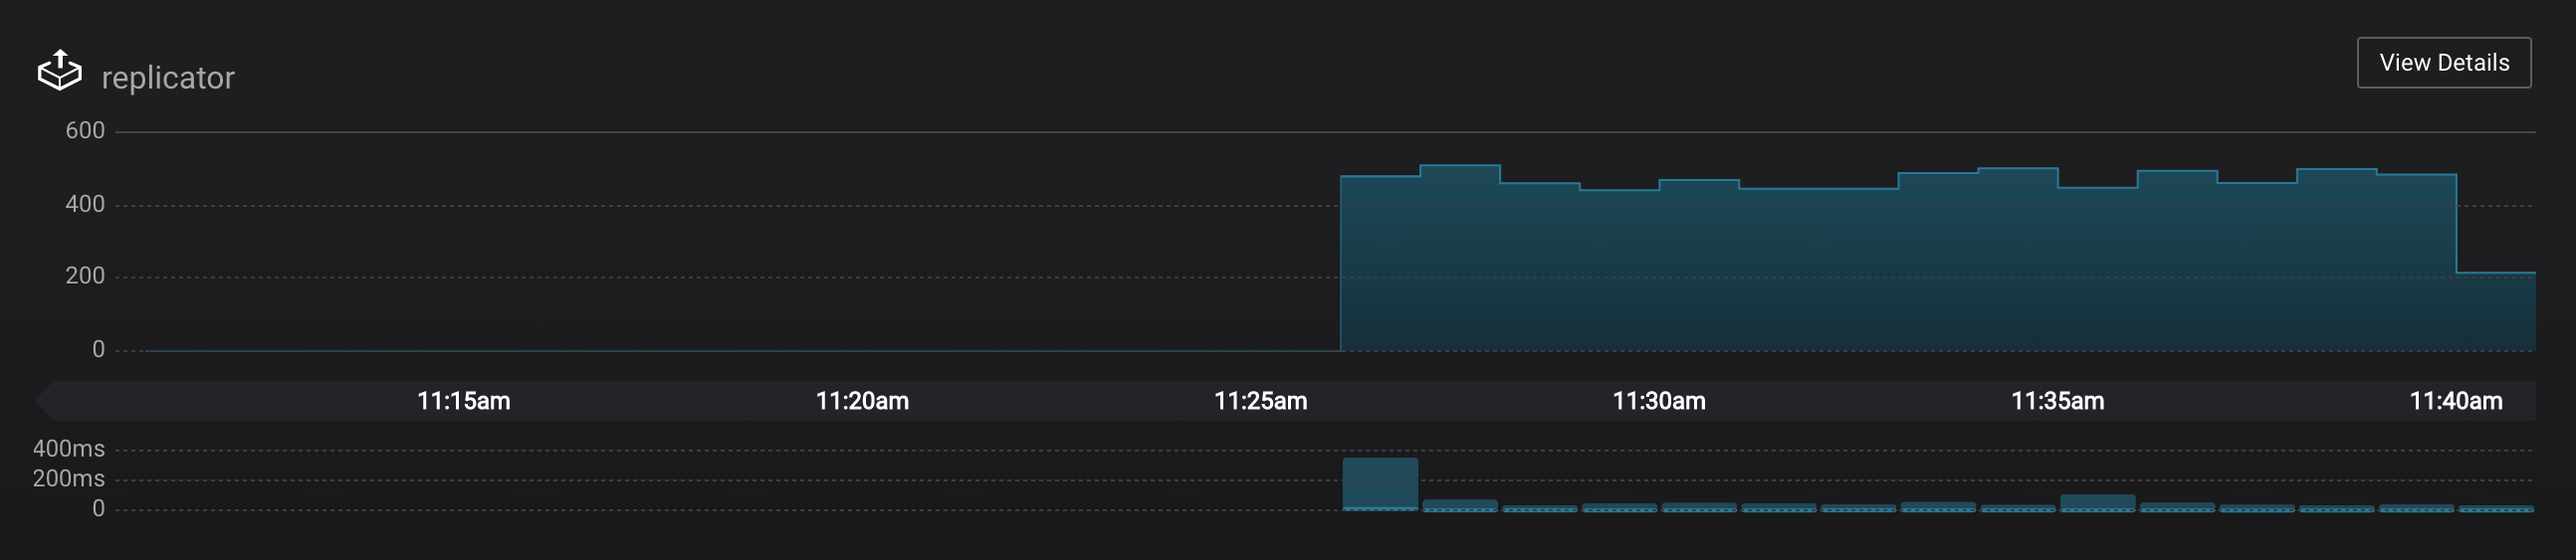
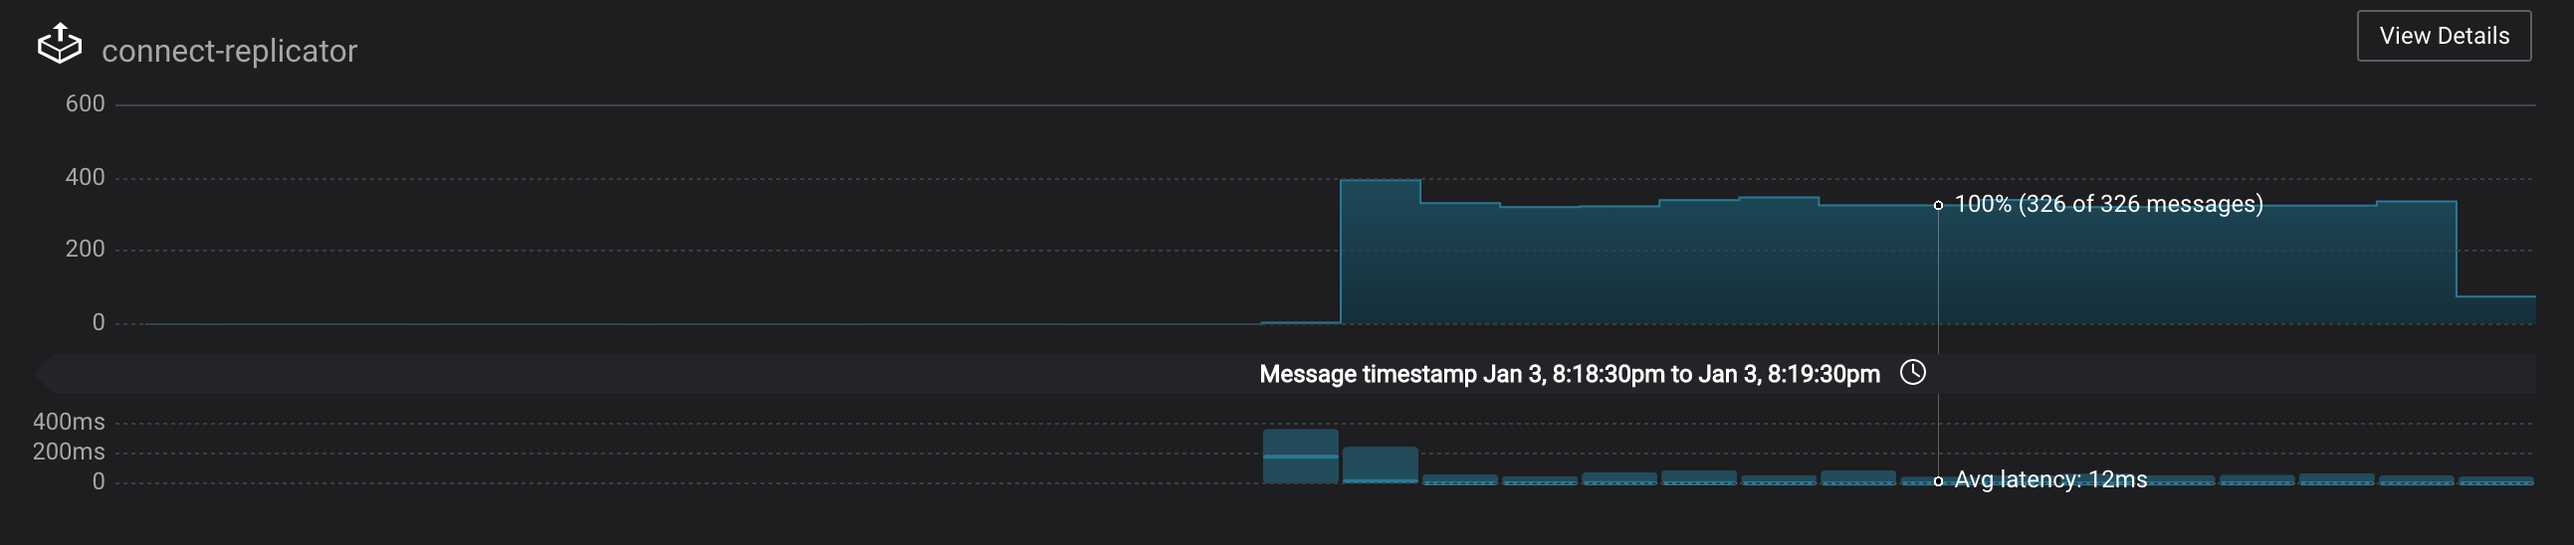
Rename replicator to connect-replicator

diff --git a/README.md b/README.md
@@ -453,27 +453,27 @@ c. If you try communicate with brokers via the SSL port but don't specify the SS
 
 Confluent Replicator copies data from a source Kafka cluster to a destination Kafka cluster. The source and destination clusters are typically different clusters, but in this demo, Replicator is doing intra-cluster replication, _i.e._, the source and destination Kafka clusters are the same. As with the rest of the components in the solution, Confluent Replicator is also configured with security.
 
-1. Monitor throughput and latency of Confluent Replicator in the Data streams monitoring view. Replicator is a Kafka Connect source connector and has a corresponding consumer group `replicator`.
+1. __**Monitoring --> Data Streams --> Message Delivery**__: monitor throughput and latency of Confluent Replicator in the Data streams monitoring view. Replicator is a Kafka Connect source connector and has a corresponding consumer group `connect-replicator`.
 
 	![image](images/replicator_consumer_group.png)
 
-2. In the Topics view, scroll down to view the topics called `wikipedia.parsed` (Replicator is consuming data from this topic) and `wikipedia.parsed.replica` (Replicator is copying data to this topic). Click on "Consumer Groups" for the topic `wikipedia.parsed` and observe that one of the consumer groups is called "replicator".
+2. __**Management --> Topics**__: scroll down to view the topics called `wikipedia.parsed` (Replicator is consuming data from this topic) and `wikipedia.parsed.replica` (Replicator is copying data to this topic). Click on "Consumer Groups" box for the topic `wikipedia.parsed` and observe that one of the consumer groups is called `connect-replicator`.
 
 	![image](images/replicator_topic_info.png)
 
-3. In the Kafka Connect view, pause the Replicator connector by pressing the pause icon in the top right. This will stop consumption for the related consumer group.
+3. __**Management --> Kafka Connect**__: pause the Replicator connector by pressing the pause icon in the top right. This will stop consumption for the related consumer group.
 
 	<img src="images/pause_connector.png" width="200" align="center">
 
-4. Observe that the replicator consumer group has stopped consumption.
+4. Observe that the `connect-replicator` consumer group has stopped consumption.
 
 	![image](images/replicator_streams_stopped.png)
 
 5. Restart the Replicator connector.
 
-6. Observe that the replicator consumer group has resumed consumption. Notice several things:
+6. Observe that the `connect-replicator` consumer group has resumed consumption. Notice several things:
 
-        * Even though the consumer group `replicator` was not running for some of this time, all messages are shown as delivered. This is because all bars are time windows relative to produce timestamp.
+        * Even though the `connect-replicator` consumer group was not running for some of this time, all messages are shown as delivered. This is because all bars are time windows relative to produce timestamp.
         * The latency peaks and then gradually decreases, because this is also relative to the produce timestamp.
 
 
